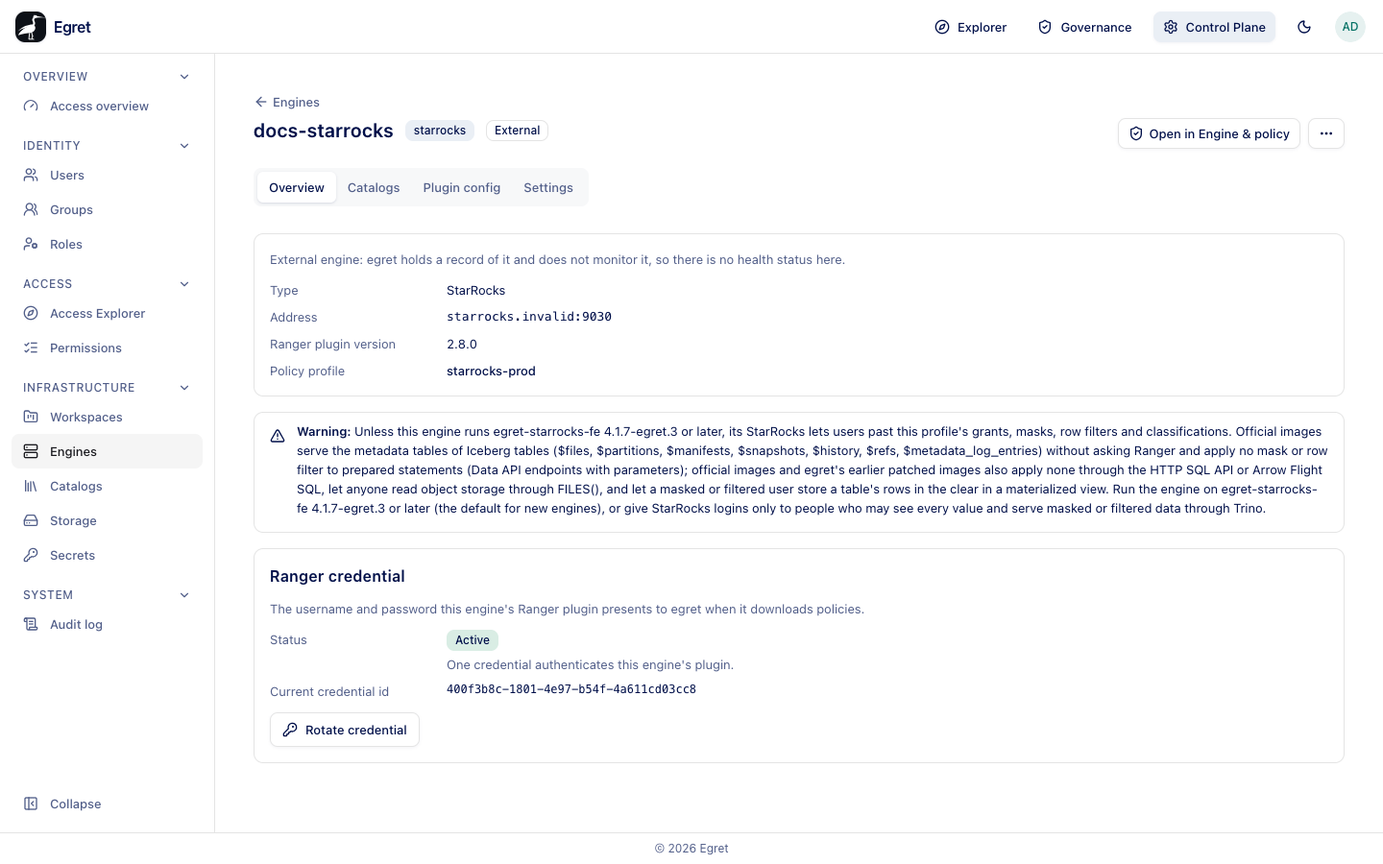
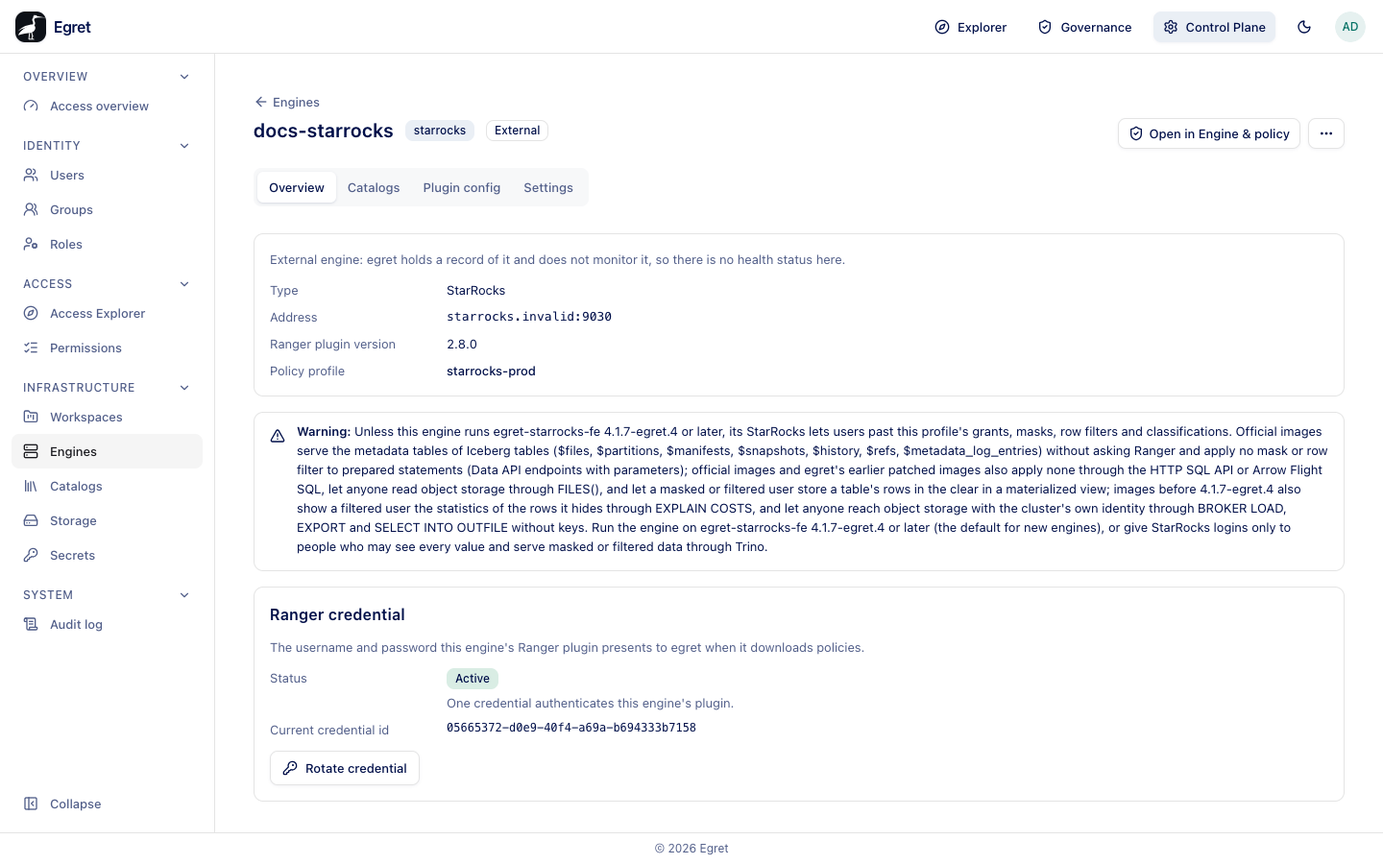
docs: StarRocks engines default to egret-starrocks-fe 4.1.7-egret.4 (platform #832)
- KI-350 (EXPLAIN COSTS shows the statistics of hidden rows) and KI-351
  (loads, exports and INTO OUTFILE with the nodes' cloud identity), both
  fixed in 4.1.7-egret.4
- the StarRocks warning names them and is hidden only from egret.4:
  engine detail, register external, engines and policy, masks and filters
- engines-and-ranger: egret.4 row, holes, refusals (5213, 5214), move
  procedure; local stack allin1; upgrade note
- the four warning screenshots re-shot from the #832 frontend

Changed region(s): [[0.1875, 0.56, 0.9375, 0.8711], [0.1875, 0.84, 0.3125, 0.9022], [0.9062, 0.4978, 0.9375, 0.5289]]

diff --git a/platform/control-plane/query-engines/engine-detail.md b/platform/control-plane/query-engines/engine-detail.md
@@ -12,7 +12,7 @@ Select an engine in **Control Plane → Engines** to open its page. The tabs dep
 
 The header shows the engine name, its namespace (`egret-engines`), the image, the endpoint, the authentication (*JWT auth*) and the Ranger plugin version, with the type and status badges. The endpoint is the `host:port` a workspace connection to the engine dials, for example `docs-trino-trino.egret-engines.svc:8443` (port 8443 is the HTTPS listener of an engine with JWT delegation). **Open in Engine & policy** opens the engine in Governance, **Restart** restarts the engine, and the **More engine actions** menu (**⋯**) holds **Delete engine**. The tabs are **Overview**, **Catalogs**, **Workspaces**, **Settings** and **Monitor**.
 
-A provisioned StarRocks engine that a policy profile names shows, above the tabs, the warning that unless the engine runs `egret-starrocks-fe` `4.1.7-egret.3` or later its StarRocks lets users past the profile: official images serve the Iceberg metadata tables without asking Ranger and apply no mask or row filter to prepared statements, and official and earlier patched images apply none through the HTTP SQL API or Arrow Flight SQL, let anyone read object storage through `FILES()` and let a masked or filtered user store a table's rows in the clear in a materialized view (since platform #822, widened in #826 and #827; see [External engine](#overview-1), KI-340, KI-345 to KI-348). It is not shown while the profile list loads, or to a viewer who cannot read it. It is not shown for a provisioned engine on Egret's patched image `ghcr.io/egret-data/egret-starrocks-fe` `4.1.7-egret.3` or later (the default for new engines since platform #827), which fixes all of them; it is shown for an engine still on `4.1.7-egret.1`; an external engine always shows it, because Egret does not know its image.
+A provisioned StarRocks engine that a policy profile names shows, above the tabs, the warning that unless the engine runs `egret-starrocks-fe` `4.1.7-egret.4` or later its StarRocks lets users past the profile: official images serve the Iceberg metadata tables without asking Ranger and apply no mask or row filter to prepared statements, and official and earlier patched images apply none through the HTTP SQL API or Arrow Flight SQL, let anyone read object storage through `FILES()` and let a masked or filtered user store a table's rows in the clear in a materialized view, and images before `4.1.7-egret.4` show a filtered user the statistics of hidden rows through `EXPLAIN COSTS` and let anyone reach object storage with the cluster's own identity through `BROKER LOAD`, `EXPORT` and `SELECT INTO OUTFILE` without keys (since platform #822, widened in #826, #827 and #832; see [External engine](#overview-1), KI-340, KI-345 to KI-348, KI-350, KI-351). It is not shown while the profile list loads, or to a viewer who cannot read it. It is not shown for a provisioned engine on Egret's patched image `ghcr.io/egret-data/egret-starrocks-fe` `4.1.7-egret.4` or later (the default for new engines since platform #832), which fixes all of them; it is shown for an engine still on `4.1.7-egret.1` or `4.1.7-egret.3`; an external engine always shows it, because Egret does not know its image.
 
 ### Overview
 
@@ -119,7 +119,7 @@ The header shows the engine name, its type, an **External** badge and **Open in 
 | **Ranger plugin version** | The version you declared. |
 | **Policy profile** | The bound profile, or *None bound. Bind one on the Settings tab.* |
 
-For a StarRocks engine with a bound profile the tab also shows a warning (since platform #822; widened in platform #826 and #827): official StarRocks images serve the metadata tables of Iceberg tables (`$files`, `$partitions`, `$snapshots` and the others) without asking Ranger, so anyone who can log in to the engine can read row counts, partition values, data file paths and each column's lowest and highest values for every table of an attached Iceberg catalog, whatever the profile's grants, masks, row filters and classifications say, and apply no mask or row filter to prepared statements such as Data API endpoints with parameters; official images and Egret's earlier patched images also apply none through the HTTP SQL API or Arrow Flight SQL, let anyone read object storage through `FILES()` and let a masked or filtered user store a table's rows in the clear in a materialized view (KI-340, KI-345 to KI-348). Egret's patched image `ghcr.io/egret-data/egret-starrocks-fe` `4.1.7-egret.3` or later fixes all of them; run the engine on it. Give StarRocks logins only to people who may see these values, and serve masked or filtered data through Trino. A Trino engine shows no such warning.
+For a StarRocks engine with a bound profile the tab also shows a warning (since platform #822; widened in platform #826, #827 and #832): official StarRocks images serve the metadata tables of Iceberg tables (`$files`, `$partitions`, `$snapshots` and the others) without asking Ranger, so anyone who can log in to the engine can read row counts, partition values, data file paths and each column's lowest and highest values for every table of an attached Iceberg catalog, whatever the profile's grants, masks, row filters and classifications say, and apply no mask or row filter to prepared statements such as Data API endpoints with parameters; official images and Egret's earlier patched images also apply none through the HTTP SQL API or Arrow Flight SQL, let anyone read object storage through `FILES()` and let a masked or filtered user store a table's rows in the clear in a materialized view; images before `4.1.7-egret.4` also show a filtered user the statistics of hidden rows through `EXPLAIN COSTS` and let anyone reach object storage with the cluster's own identity through loads, exports and `SELECT INTO OUTFILE` without keys (KI-340, KI-345 to KI-348, KI-350, KI-351). Egret's patched image `ghcr.io/egret-data/egret-starrocks-fe` `4.1.7-egret.4` or later fixes all of them; run the engine on it. Give StarRocks logins only to people who may see these values, and serve masked or filtered data through Trino. A Trino engine shows no such warning.
 
 ![The Overview tab of the external StarRocks engine docs-starrocks with the StarRocks security warning](/img/platform/admin/cp-engine-ext-sr-overview.png)
 

diff --git a/platform/known-issues.md b/platform/known-issues.md
@@ -400,6 +400,8 @@ Collected while writing the detailed pages for each area (October 2026), checked
 | KI-347 | Engines / StarRocks | Security | S1 | **Fixed in Egret's patched StarRocks image `4.1.7-egret.3` (platform #827); open upstream (StarRocks #79980, #80233).** `FILES()` has no privilege of its own on StarRocks: anyone who can log in reads and writes object storage through it, past every grant, mask and row filter, given storage keys in the statement, or with `aws.s3.use_instance_profile` through the identity of the engine's nodes. Measured: a person with no grant read every row of a table's Parquet files. On the patched image every use of `FILES()` needs the OPERATE privilege on SYSTEM (error 5211). |
 | KI-348 | Engines / StarRocks | Security | S1 | **Fixed in Egret's patched StarRocks image `4.1.7-egret.3` (platform #827).** A materialized view on StarRocks is filled by a refresh that reads its base tables without its creator's masks and row filters. A person under a mask and a row filter who may create a materialized view (`create materialized view` on a `default_catalog` database) builds one over the table and reads every row and column in the clear through it. Measured: such a person's view held all three rows with clear phone numbers; a plain view, `CREATE TABLE … AS SELECT` and `INSERT … SELECT` kept the policy. Egret's clearance compiler already denies `create materialized view` on profiles with clearances; path masks and row filters had no such deny. On the patched image creating a materialized view over a table where a mask or row filter applies to the creator is refused (error 5212, whichever columns the view reads), and a refresh stops once its user comes under one. |
 | KI-349 | Engines / StarRocks | Security | S3 | **Fixed in Egret's patched StarRocks image `4.1.7-egret.3` (platform #827).** `SHOW CREATE CATALOG` needs no privilege on StarRocks: anyone who can log in reads every external catalog's properties, its endpoints and warehouse, and the first and last two characters of its keys and OAuth credential, although `SHOW CATALOGS` lists only catalogs the person has a privilege on. On the patched image it needs a privilege on the catalog. |
+| KI-350 | Engines / StarRocks | Security | S2 | **Fixed in Egret's patched StarRocks image `4.1.7-egret.4` (platform #832).** `EXPLAIN COSTS` on StarRocks prints the optimizer's statistics of every column it reads (lowest and highest value, null fraction, number of distinct values) over the whole table; a row filter does not narrow them. A person under a row filter learns the range of the rows it hides. Measured on `4.1.7-egret.3`: a person allowed ids 1 and 3 of an Iceberg table read `id` from 1.0 to 4.0. On the patched image `EXPLAIN COSTS` is refused (error 5213) when a mask or row filter on a table it reads applies to the person; plain `EXPLAIN`, `EXPLAIN VERBOSE` and `EXPLAIN LOGICAL` print no column statistics and still work. They still show the estimated row count and the person's own row filter. |
+| KI-351 | Engines / StarRocks | Security | S1 | **Fixed in Egret's patched StarRocks image `4.1.7-egret.4` (platform #832).** `BROKER LOAD`, `EXPORT`, `SELECT ... INTO OUTFILE` and `CREATE EXTERNAL TABLE ... ENGINE = file` on StarRocks accept storage properties without keys and then run with the identity of the engine's nodes: an instance profile, the AWS default credential chain (which StarRocks uses whenever no keys are given), a web identity token, an Azure managed identity or a GCE service account. Anyone who can log in, even with no grant, writes query results to any bucket that identity reaches. Measured on `4.1.7-egret.3`: a person with no grant reached the object store through `INTO OUTFILE`. On the patched image these statements need the OPERATE privilege on SYSTEM (error 5214) unless every location is on an object store and the statement carries that store's own keys. Run engine nodes without a cloud role, or with one limited to the storage the engine must read. |
 
 ## Not verified
 

diff --git a/platform/deploy-operate/engines-and-ranger.md b/platform/deploy-operate/engines-and-ranger.md
@@ -29,7 +29,8 @@ jar out of each.
 | StarRocks | `starrocks/fe-ubuntu:4.1.4` | 2.8.0 |
 | StarRocks | `starrocks/fe-ubuntu:4.1.6` | 2.9.0 |
 | StarRocks | `ghcr.io/egret-data/egret-starrocks-fe:4.1.7-egret.1` (Egret's patched 4.1.7, first fixes; superseded) | 2.9.0 |
-| StarRocks | `ghcr.io/egret-data/egret-starrocks-fe:4.1.7-egret.3` (Egret's patched 4.1.7) | 2.9.0 |
+| StarRocks | `ghcr.io/egret-data/egret-starrocks-fe:4.1.7-egret.3` (Egret's patched 4.1.7; superseded) | 2.9.0 |
+| StarRocks | `ghcr.io/egret-data/egret-starrocks-fe:4.1.7-egret.4` (Egret's patched 4.1.7) | 2.9.0 |
 
 Plugin 2.5.0 cannot present the engine credential the policy service requires (see [Authentication of the plugin](#authentication-of-the-plugin)), so Egret refuses to create an engine on `trinodb/trino:470` or update one onto it (400), and refuses to register an external engine that declares a plugin older than 2.8.0. An existing Trino 470 engine must move to Trino 483.
 
@@ -59,17 +60,23 @@ The official StarRocks images have holes that no policy Egret compiles can close
 - `FILES()` reads and writes object storage with no privilege at all (KI-347);
 - a materialized view stores its base tables' rows past its creator's masks and row filters (KI-348);
 - `SELECT *` under a mask or row filter returns the hidden `_file` and `_pos` columns (KI-337), and `SHOW CREATE CATALOG`
-  shows every catalog's properties to anyone (KI-349).
+  shows every catalog's properties to anyone (KI-349);
+- `EXPLAIN COSTS` shows each column's statistics over the whole table, including the rows a row filter hides (KI-350);
+- `BROKER LOAD`, `EXPORT`, `SELECT ... INTO OUTFILE` and `ENGINE = file` tables that name no keys of their own run with
+  the identity of the engine's nodes, so anyone can write query results to any bucket that identity reaches (KI-351).
 
 `ghcr.io/egret-data/egret-starrocks-fe` is the official `starrocks/fe-ubuntu` image of the same release with two front
-end jars rebuilt with the fixes; it ships the official Ranger plugin. `4.1.7-egret.3` fixes all of the above;
-`4.1.7-egret.1` fixed only the first two. On it, `FILES()` needs the OPERATE privilege on SYSTEM, and creating a
-materialized view over a table where a mask or row filter applies to the creator is refused. The source, the patches and the security test every
+end jars rebuilt with the fixes; it ships the official Ranger plugin. `4.1.7-egret.4` fixes all of the above;
+`4.1.7-egret.3` left the last two open and `4.1.7-egret.1` fixed only the first two. On it, `FILES()` needs the OPERATE
+privilege on SYSTEM, and so do loads, exports, `SELECT ... INTO OUTFILE` and `ENGINE = file` tables unless they carry
+keys of their own for an object store (error 5214); creating a materialized view over a table where a mask or row filter
+applies to the creator is refused, and so is `EXPLAIN COSTS` over such a table (error 5213; the other `EXPLAIN` levels
+still work). The source, the patches and the security test every
 image passes before it is published are at [github.com/egret-data/egret-starrocks](https://github.com/egret-data/egret-starrocks).
 New provisioned engines use it. To move an existing engine onto it, update the engine's `feImage` to
-`ghcr.io/egret-data/egret-starrocks-fe:4.1.7-egret.3@sha256:5c74c820f9b741bc8054247f47f3d54dd9e526710b6fc2b5a7873cae6bb2d2b0`
+`ghcr.io/egret-data/egret-starrocks-fe:4.1.7-egret.4@sha256:55ec35ecf6df85320557f017e0c3c16056d82a258cf4a4e79a80a6565ac6fdc5`
 and its `cnImage` to `starrocks/cn-ubuntu:4.1.7@sha256:39f7320127c9924abb1f1ce0ba0583ab11989cbe5bd1bb6274ada6f89ba5740d`
-(the pods restart; from 4.1.4 or 4.1.6 this is an upgrade; an engine on `4.1.7-egret.1` moves the same way). Run an external StarRocks engine on the same image.
+(the pods restart; from 4.1.4 or 4.1.6 this is an upgrade; an engine on `4.1.7-egret.1` or `4.1.7-egret.3` moves the same way). Run an external StarRocks engine on the same image.
 
 ## Connect an engine
 

diff --git a/platform/data-governance/engines-and-policy/index.md b/platform/data-governance/engines-and-policy/index.md
@@ -60,7 +60,7 @@ A Trino profile with no tag service cannot be bound to an engine: egret refuses 
 
 Select an engine to open its page. The header shows the engine name, its **Type** badge, **Provisioned** or **External**, the bound **Profile**, the **Ranger plugin** version, and **Open in Control plane**. For an external engine a note reads *egret compiles this engine's policies but cannot see whether the external engine downloads them.*
 
-For a StarRocks engine bound to a profile, a warning under the header says that official StarRocks images serve the metadata tables of Iceberg tables (`$files`, `$partitions`, `$snapshots` and the others) without asking Ranger, so anyone who can log in to the engine can read row counts, partition values, data file paths and each column's lowest and highest values for every table of an attached Iceberg catalog, whatever the profile's grants, masks, row filters and classifications say, and apply no mask or row filter to prepared statements; official images and Egret's earlier patched images also apply none through the HTTP SQL API or Arrow Flight SQL, let anyone read object storage through `FILES()` and let a masked or filtered user store a table's rows in the clear in a materialized view (KI-340, KI-345 to KI-348). It advises running the engine on Egret's patched image `ghcr.io/egret-data/egret-starrocks-fe` `4.1.7-egret.3` or later, or giving StarRocks logins only to people who may see these values and serving masked or filtered data through Trino (since platform #822, widened in #827). With **engine:read**, it is not shown for a provisioned engine on Egret's patched image `ghcr.io/egret-data/egret-starrocks-fe` `4.1.7-egret.3` or later (the default for new engines since platform #827), which fixes all of them; it is shown for an engine still on `4.1.7-egret.1`; an external engine always shows it, because Egret does not know its image.
+For a StarRocks engine bound to a profile, a warning under the header says that official StarRocks images serve the metadata tables of Iceberg tables (`$files`, `$partitions`, `$snapshots` and the others) without asking Ranger, so anyone who can log in to the engine can read row counts, partition values, data file paths and each column's lowest and highest values for every table of an attached Iceberg catalog, whatever the profile's grants, masks, row filters and classifications say, and apply no mask or row filter to prepared statements; official images and Egret's earlier patched images also apply none through the HTTP SQL API or Arrow Flight SQL, let anyone read object storage through `FILES()` and let a masked or filtered user store a table's rows in the clear in a materialized view; images before `4.1.7-egret.4` also show a filtered user the statistics of hidden rows through `EXPLAIN COSTS` and let anyone reach object storage with the cluster's own identity through loads, exports and `SELECT INTO OUTFILE` without keys (KI-340, KI-345 to KI-348, KI-350, KI-351). It advises running the engine on Egret's patched image `ghcr.io/egret-data/egret-starrocks-fe` `4.1.7-egret.4` or later, or giving StarRocks logins only to people who may see these values and serving masked or filtered data through Trino (since platform #822, widened in #827 and #832). With **engine:read**, it is not shown for a provisioned engine on Egret's patched image `ghcr.io/egret-data/egret-starrocks-fe` `4.1.7-egret.4` or later (the default for new engines since platform #832), which fixes all of them; it is shown for an engine still on `4.1.7-egret.1` or `4.1.7-egret.3`; an external engine always shows it, because Egret does not know its image.
 
 ![The Governance page of the external StarRocks engine docs-starrocks: the warning that official StarRocks images serve Iceberg metadata tables without asking Ranger and apply no mask or row filter to prepared statements, above the tabs](/img/platform/admin/gov-engine-starrocks-warning.png)
 

diff --git a/platform/control-plane/query-engines/register-external.md b/platform/control-plane/query-engines/register-external.md
@@ -44,7 +44,7 @@ Egret proves migrations and explains access only for Trino with plugin 2.5.0 or 
 
 *Bind a Trino profile now, or leave it and bind one later from the engine's Settings tab. A profile can belong to one engine.* The list shows **No profile yet**, then each Trino profile, marking those already taken (for example *docs-trino — bound to docs-trino*). A Trino profile with no tag service is listed but cannot be chosen, marked *… — no tag service: give it one on its Advanced tab*, because egret would refuse to bind it. A profile already bound to another engine cannot be chosen again. If binding would make two mask or row-filter rules decide one column differently, egret refuses and changes nothing, and the form says *Nothing was changed. Resolve one of the two, then try again.*
 
-For a StarRocks engine, picking a profile shows a warning under the picker (since platform #822): official StarRocks images serve the metadata tables of Iceberg tables without asking Ranger, so anyone who can log in to the engine can read row counts, partition values, data file paths and column bounds of every table in its Iceberg catalogs, whatever the profile says, and apply no mask or row filter to prepared statements; official images and Egret's earlier patched images also apply none through the HTTP SQL API or Arrow Flight SQL, let anyone read object storage through `FILES()` and let a masked or filtered user store a table's rows in the clear in a materialized view (KI-340, KI-345 to KI-348; widened in platform #827). Run the external engine on Egret's patched image `ghcr.io/egret-data/egret-starrocks-fe` `4.1.7-egret.3` or later, which fixes all of them; the warning stays, because Egret cannot see which image an external engine runs.
+For a StarRocks engine, picking a profile shows a warning under the picker (since platform #822): official StarRocks images serve the metadata tables of Iceberg tables without asking Ranger, so anyone who can log in to the engine can read row counts, partition values, data file paths and column bounds of every table in its Iceberg catalogs, whatever the profile says, and apply no mask or row filter to prepared statements; official images and Egret's earlier patched images also apply none through the HTTP SQL API or Arrow Flight SQL, let anyone read object storage through `FILES()` and let a masked or filtered user store a table's rows in the clear in a materialized view; images before `4.1.7-egret.4` also show a filtered user the statistics of hidden rows through `EXPLAIN COSTS` and let anyone reach object storage with the cluster's own identity through loads, exports and `SELECT INTO OUTFILE` without keys (KI-340, KI-345 to KI-348, KI-350, KI-351; widened in platform #827 and #832). Run the external engine on Egret's patched image `ghcr.io/egret-data/egret-starrocks-fe` `4.1.7-egret.4` or later, which fixes all of them; the warning stays, because Egret cannot see which image an external engine runs.
 
 ![Register external engine with type StarRocks and a profile picked: the StarRocks security warning under Policy profile](/img/platform/admin/cp-register-sr-warning.png)
 

diff --git a/platform/data-governance/data/masks-and-filters.md b/platform/data-governance/data/masks-and-filters.md
@@ -142,7 +142,7 @@ The local platform admin `admin@egret.local` got the same masked values: platfor
 - A mask on a column whose type the mask cannot apply to can return an error from the engine rather than a masked value.
 - A rule that selects by path is copied to the new name when its table or column is renamed, and the original stays on the old name; a rule that selects by tag follows because classifications do. A rule that selects by a pattern the new name escapes refuses the rename. See [Renames and drops](./grants.md#renames-and-drops).
 - A row filter or custom mask expression that names a renamed column is not rewritten (KI-321).
-- On official StarRocks images, masks and row filters do not reach a table's Iceberg metadata tables (`orders$files`, `orders$partitions`, …), which StarRocks serves to any login without asking Ranger, so column bounds, partition values and counts are readable regardless of rules (KI-340); they do not apply to prepared statements, so a Data API endpoint with parameters returns rows and values in the clear (KI-345); they do not apply to the HTTP SQL API or Arrow Flight SQL (KI-346), nor to `FILES()`, which reads the data files directly (KI-347); and a materialized view stores its rows past its creator's masks and row filters (KI-348). Egret's patched image `ghcr.io/egret-data/egret-starrocks-fe` `4.1.7-egret.3`, the default for new engines, fixes all of them; on an official image, do not give StarRocks logins to people who must not see the values.
+- On official StarRocks images, masks and row filters do not reach a table's Iceberg metadata tables (`orders$files`, `orders$partitions`, …), which StarRocks serves to any login without asking Ranger, so column bounds, partition values and counts are readable regardless of rules (KI-340); they do not apply to prepared statements, so a Data API endpoint with parameters returns rows and values in the clear (KI-345); they do not apply to the HTTP SQL API or Arrow Flight SQL (KI-346), nor to `FILES()`, which reads the data files directly (KI-347); a materialized view stores its rows past its creator's masks and row filters (KI-348); and `EXPLAIN COSTS` shows a filtered person each column's lowest and highest value over the rows the filter hides (KI-350). Egret's patched image `ghcr.io/egret-data/egret-starrocks-fe` `4.1.7-egret.4`, the default for new engines, fixes all of them; on an official image, do not give StarRocks logins to people who must not see the values.
 - On Trino, a table's metadata tables (`orders$files`, `orders$partitions`, …) follow its masks, row filters and denies (since platform #821): a person a mask, row filter or deny on the table restricts gets *Access Denied* on every one of them, and a person it exempts or does not restrict reads them as before. A tag rule or clearance does the same for each table that carries the classification. Profiles that egret's permission model does not compile get no such deny (KI-341).
 - On StarRocks, `SELECT *` on an Iceberg table shows the hidden `_file` and `_pos` columns to a user with a row filter (KI-337). List the columns instead.
 

diff --git a/platform/deploy-operate/local.md b/platform/deploy-operate/local.md
@@ -32,7 +32,7 @@ named `egret-dev`.
 | `valkey` | `valkey/valkey:8` | 6399 (to 6379 in the container) | The shared limiter and response cache for the Data API (`data_api.shared_store_url`). The dev server does not need it; `just check` does, for the store tests. No volume: its contents can be rebuilt. |
 | `rustfs` | `rustfs/rustfs:1.0.1` | 9000 (S3 API), 9001 (console) | S3-compatible object storage. Access key `egret`, secret `egretsecret`. It replaced MinIO, whose public images were withdrawn. It must support STS `AssumeRole`, because the embedded catalog vends credentials through it. |
 | `trino` | `trinodb/trino:483` (pinned by digest) | 8090 (HTTP), 8453 (HTTPS) | A development Trino with JWT authentication against Keycloak and a file-based group access control. JWT is only enforced over TLS, so the HTTPS listener uses a self-signed keystore (`deploy/trino/etc/gen-certs.sh` makes it). It ships no catalogs: mount property files into `deploy/trino/catalog`. |
-| `starrocks` | `ghcr.io/egret-data/egret-starrocks-allin1:4.1.7-egret.3` (Egret's patched StarRocks, pinned by digest) | 9030 (MySQL protocol), 8030 (FE HTTP) | A single-container StarRocks. The Ranger plugin configuration (`ranger-starrocks-security.xml`, `ranger-starrocks-audit.xml`) is mounted into the front end. |
+| `starrocks` | `ghcr.io/egret-data/egret-starrocks-allin1:4.1.7-egret.4` (Egret's patched StarRocks, pinned by digest) | 9030 (MySQL protocol), 8030 (FE HTTP) | A single-container StarRocks. The Ranger plugin configuration (`ranger-starrocks-security.xml`, `ranger-starrocks-audit.xml`) is mounted into the front end. |
 | `keycloak` | `quay.io/keycloak/keycloak:26.0` | 8081 | The development identity provider, started with `start-dev --import-realm`. The `egret` realm is imported from `deploy/keycloak/egret-realm.json`. The Keycloak administrator is `admin` / `admin`. |
 | `frontend` | built from `frontend/` (nginx) | 5173 | The production build of the web app, for static smoke tests only. The backend is not containerized in this file, so `/api` does not resolve from it. Use `npm run dev` in `frontend/` for development. |
 

diff --git a/platform/deploy-operate/upgrade.md b/platform/deploy-operate/upgrade.md
@@ -458,6 +458,26 @@ From platform #828 there is no migration and no API change.
   `engineNetworkPolicy.operatorNamespaces`.
 - To keep the old behaviour, set `engineNetworkPolicy.enabled=false`.
 
+### StarRocks engines default to `egret-starrocks-fe` `4.1.7-egret.4` (platform #832)
+
+From platform #832 there is no migration and no API change.
+
+- **Behaviour change:** a new provisioned StarRocks engine runs `ghcr.io/egret-data/egret-starrocks-fe:4.1.7-egret.4`
+  (pinned by digest) instead of `4.1.7-egret.3`; the compute nodes stay on the official `starrocks/cn-ubuntu:4.1.7`. It
+  also fixes KI-350 (`EXPLAIN COSTS` shows the statistics of hidden rows) and KI-351 (loads, exports and
+  `SELECT INTO OUTFILE` with the nodes' own cloud identity). The local development stack's `starrocks` service runs
+  `egret-starrocks-allin1:4.1.7-egret.4`.
+- **New refusals on the patched image:** `EXPLAIN COSTS` over a table where a mask or row filter applies to the person
+  is refused (error 5213). `BROKER LOAD`, `EXPORT`, `SELECT ... INTO OUTFILE` and `ENGINE = file` tables need the
+  OPERATE privilege on SYSTEM (error 5214) unless every location is on an object store and the statement carries that
+  store's own keys; HDFS and local paths always need it. Egret itself runs none of these statements.
+- **The image ships StarRocks' AuditLoader plugin** at `/opt/egret/auditloader.zip`. Nothing installs it yet.
+- **Existing engines keep their image**, including those on `4.1.7-egret.3`. Move each one with
+  `PUT /api/control-plane/engines/{id}` as described under *Egret's patched StarRocks image* on **Engines and Ranger**;
+  its pods restart.
+- **The warning** now also names KI-350 and KI-351, and is shown for every StarRocks engine bound to a profile unless it
+  runs `egret-starrocks-fe` `4.1.7-egret.4` or later, so it comes back for an engine on `4.1.7-egret.3`.
+
 ## Rolling back
 
 There is no supported in-place rollback. Restore the database from the backup taken in step 2, then start the previous
